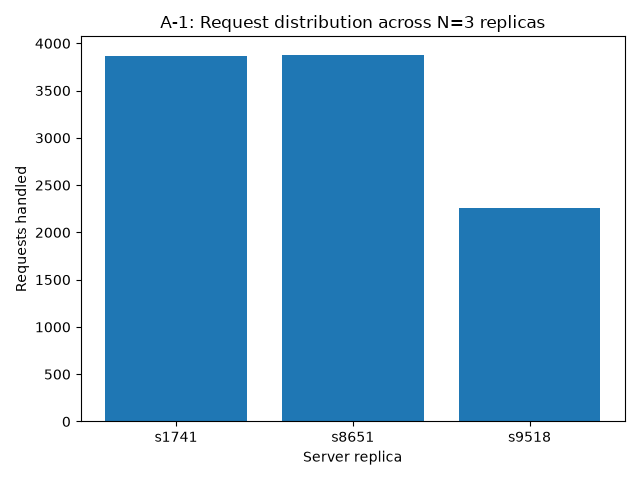
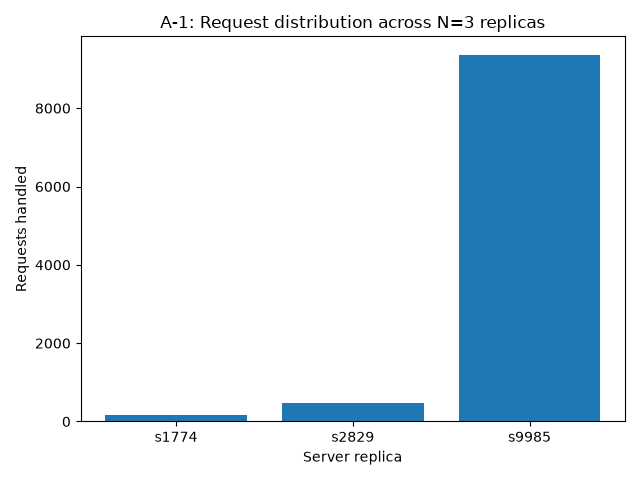
UPDATES

diff --git a/docs/labs/Practical_Recording_Script.md b/docs/labs/Practical_Recording_Script.md
@@ -1,0 +1,286 @@
+# Practical Recording Script
+
+Distributed Systems (ICS 4104) — Group 14, Emmanuel Keter (134976)
+Use this as a read-along/action script while screen-recording the two practicals in WSL.
+`[SAY]` = speak this to camera/mic. `[DO]` = type/run this or perform this action.
+Keep terminal font large (Ctrl + / Ctrl -) and windows tiled before you hit record.
+
+---
+
+## 0. Opening Slate (both labs — ~20 sec)
+
+`[SAY]`
+> "Hello, my name is Emmanuel Keter, admission number 134976, Group 14, Distributed Systems ICS 4104.
+> In this recording I'll demonstrate two practicals: first, Mutual Exclusion using the Token Ring
+> Algorithm, and second, creation and consumption of a SOAP Web Service using Java JAX-WS. Both are
+> implemented in a WSL Ubuntu environment."
+
+---
+
+## PART 1 — Mutual Exclusion (Token Ring Algorithm)
+
+### 1.1 Theory (~30 sec)
+
+`[SAY]`
+> "In a distributed system, several processes may need to access a shared resource at the same time.
+> Mutual exclusion guarantees only one process is in the critical section at once. The Token Ring
+> algorithm arranges processes in a logical ring and circulates a single token — only the process
+> holding the token may enter the critical section and send data to the server. Here I have one
+> server, TokenServer1, and two clients, TokenClient1 and TokenClient2, communicating over UDP
+> sockets on localhost."
+
+### 1.2 Environment setup (~40 sec)
+
+`[SAY]` "Let's set up the working directory and confirm the JDK."
+
+`[DO]`
+```bash
+mkdir mutual-exclusion
+cd mutual-exclusion
+sudo apt install -y openjdk-17-jdk
+sudo update-alternatives --config java
+```
+`[SAY]` "I'll select option 1 to use JDK 17."
+`[DO]` type `1`, press Enter, then repeat for javac:
+```bash
+sudo update-alternatives --config javac
+```
+`[SAY]` "Same here — JDK 17 for the compiler."
+`[DO]` type `1`, press Enter.
+
+### 1.3 Code walkthrough (~90 sec)
+
+`[SAY]` "Now let's look at the three source files I've already written."
+
+`[DO]`
+```bash
+nano TokenServer1.java
+```
+`[SAY]` while scrolling through it:
+> "TokenServer1 runs an infinite loop. Each iteration it creates a Server object, binds a
+> DatagramSocket to port 8000 with `recPort`, and blocks on `recData()` until a UDP packet arrives.
+> When a client sends data, the server reads the bytes into a String and prints `The message is`
+> followed by the payload — that's the shared critical-section resource in this demo."
+`[DO]` Ctrl+X to exit (no changes).
+
+`[DO]`
+```bash
+nano TokenClient1.java
+```
+`[SAY]`
+> "TokenClient1 holds the token first. It prompts 'Do you want to enter the Data -> YES/NO'. If I
+> answer YES, it reads a line of input, forwards that data to TokenServer1 on port 8000 over a
+> DatagramSocket, prints 'sending' then 'now sending', and afterwards passes the token on to
+> TokenClient2. If I answer NO, it just goes to the else branch and passes the token along without
+> entering the critical section."
+`[DO]` Ctrl+X.
+
+`[DO]`
+```bash
+nano TokenClient2.java
+```
+`[SAY]`
+> "TokenClient2 is symmetric — it starts in receiving mode, waits for the token to arrive from
+> Client1, then gets the same YES/NO prompt. Only whichever client currently holds the token can
+> talk to the server; this is what enforces mutual exclusion here."
+`[DO]` Ctrl+X.
+
+### 1.4 Compilation (~15 sec)
+
+`[SAY]` "Let's compile all three files together."
+
+`[DO]`
+```bash
+javac *.java
+tree
+```
+`[SAY]` "You can see the three .class files generated alongside the source, plus the token-passing
+helper classes."
+
+### 1.5 Execution (~90 sec)
+
+`[SAY]` "I'll open three terminal tabs — one for the server, one for each client — and run them in
+order."
+
+`[DO]` Terminal tab 1:
+```bash
+java TokenServer1
+```
+`[SAY]` "The server is now listening on port 8000."
+
+`[DO]` Terminal tab 2:
+```bash
+java TokenClient1
+```
+`[SAY]` "Client1 asks whether I want to enter the data. I'll say YES and type a message."
+`[DO]` type `YES`, Enter, then type `Hello from Group 14`, Enter.
+`[SAY]` "Notice it prints 'ready to send', then 'sending', then 'now sending' — and afterwards it
+prompts again. This time I'll say NO to pass the token along without re-entering the critical
+section."
+`[DO]` type `NO`, Enter.
+
+`[DO]` Terminal tab 3:
+```bash
+java TokenClient2
+```
+`[SAY]` "Client2 enters receiving mode, detects the incoming token, and now shows the same YES/NO
+prompt. I'll answer YES and send a second message."
+`[DO]` type `YES`, Enter, then type `Hello from Keter`, Enter.
+
+`[SAY]` "Switching back to the server terminal — you can see it printed both messages: 'The message
+is ClientOne....Hello from Group' and 'The message is ClientTwo....Hello from Ket', confirming each
+client could only send while holding the token."
+
+### 1.6 Conclusion (~20 sec)
+
+`[SAY]`
+> "This demonstrates the Token Ring Mutual Exclusion algorithm: the token circulated between the two
+> clients, only the token holder could send to the shared server, and the message log confirms no
+> two clients accessed the critical section simultaneously — so mutual exclusion was achieved and
+> race conditions were prevented."
+
+---
+
+## PART 2 — Web Services (SOAP with JAX-WS)
+
+### 2.1 Theory (~30 sec)
+
+`[SAY]`
+> "A web service lets applications communicate over a network using standard protocols like HTTP,
+> XML, SOAP and WSDL. SOAP is an XML-based messaging protocol, and a SOAP service publishes its
+> operations through a WSDL document that clients use to generate stubs automatically. Here I'll
+> build a Calculator web service in Java JAX-WS that exposes an `add` operation, publish it with
+> `Endpoint.publish()`, and consume it from a separate client generated via `wsimport`."
+
+### 2.2 Environment setup (~40 sec)
+
+`[SAY]` "First, set up the working directory and switch to JDK 8, which this JAX-WS setup needs."
+
+`[DO]`
+```bash
+cd ~/distributed-systems/web-services
+sudo update-alternatives --config java
+sudo update-alternatives --config javac
+java -version
+javac -version
+```
+`[SAY]` "Confirmed — OpenJDK 1.8.0_492 for both runtime and compiler."
+
+`[DO]`
+```bash
+mkdir -p com/learn/ws
+tree
+```
+
+### 2.3 Code walkthrough (~90 sec)
+
+`[DO]`
+```bash
+nano com/learn/ws/Calculator.java
+```
+`[SAY]`
+> "This is the service class. It's annotated `@WebService(serviceName = "Calculator")`, and the
+> `add` method is annotated `@WebMethod(operationName = "add")` with two `@WebParam`-annotated
+> integers, `a` and `b`. It simply returns `a + b` — these annotations are what let JAX-WS expose it
+> as a SOAP operation."
+`[DO]` Ctrl+X.
+
+`[DO]`
+```bash
+nano com/learn/ws/CalculatorPublisher.java
+```
+`[SAY]`
+> "The publisher's main method calls `Endpoint.publish()`, binding the Calculator instance to
+> `http://localhost:9999/ws/calculator`, and prints the WSDL URL. This replaces deploying to a
+> GlassFish server — the JDK's built-in lightweight HTTP server hosts the endpoint directly."
+`[DO]` Ctrl+X.
+
+### 2.4 Compilation (~10 sec)
+
+`[DO]`
+```bash
+javac com/learn/ws/*.java
+tree
+```
+`[SAY]` "Calculator.class and CalculatorPublisher.class are generated."
+
+### 2.5 Publish the service and generate client stubs (~60 sec)
+
+`[DO]` Terminal tab 1:
+```bash
+java com.learn.ws.CalculatorPublisher
+```
+`[SAY]` "The service is now running and printing the WSDL URL at
+`http://localhost:9999/ws/calculator?wsdl`."
+
+`[DO]` Terminal tab 2:
+```bash
+mkdir -p client
+wsimport \
+  -keep \
+  -p com.learn.ws.client \
+  -d client \
+  http://localhost:9999/ws/calculator?wsdl
+```
+`[SAY]` "wsimport parses the WSDL and generates the client-side stub classes — Calculator,
+Calculator_Service, Add, AddResponse, and ObjectFactory — under `client/com/learn/ws/client`."
+
+`[DO]`
+```bash
+curl -s http://localhost:9999/ws/calculator?wsdl | head -20
+```
+`[SAY]` "And here's a look at the raw WSDL XML itself — the port type, operation, and SOAP binding
+that describe the `add` operation."
+
+`[DO]`
+```bash
+tree
+```
+
+### 2.6 Client code walkthrough (~30 sec)
+
+`[DO]`
+```bash
+nano CalculatorClient.java
+```
+`[SAY]`
+> "The client imports the generated `Calculator` and `Calculator_Service` stub classes, gets a proxy
+> via `new Calculator_Service().getCalculatorPort()`, and calls `calc.add(5, 7)` — that call is
+> transparently marshalled into a SOAP request and sent to the running service."
+`[DO]` Ctrl+X.
+
+### 2.7 Compile and run the client (~20 sec)
+
+`[DO]`
+```bash
+javac -cp client CalculatorClient.java
+java -cp .:client CalculatorClient
+```
+`[SAY]` "And the output confirms it: '5 + 7 = 12' — computed remotely by the SOAP service and
+returned to the client."
+
+### 2.8 Conclusion (~20 sec)
+
+`[SAY]`
+> "This demonstrates creating and consuming a SOAP web service with Java JAX-WS: the Calculator
+> service was published with `Endpoint.publish()`, its WSDL described the `add` operation, `wsimport`
+> generated working client stubs from that WSDL, and the client successfully invoked the remote
+> operation and received the correct result — showing communication between distributed
+> components."
+
+---
+
+## Closing (~10 sec)
+
+`[SAY]`
+> "That concludes both practicals — Mutual Exclusion via Token Ring, and SOAP Web Services via
+> JAX-WS. Thank you."
+
+---
+
+### Recording checklist
+- [ ] Terminal font large enough to read on playback
+- [ ] Each `nano` file scrolled slowly enough to read on camera before narrating
+- [ ] Screen recorder capturing audio + all terminal windows (or switch full-screen per window)
+- [ ] Server window kept visible/switched to after each client send, to show the log update live
+- [ ] Trim dead air (package installs, `apt update`) in post-editing if the raw take runs long